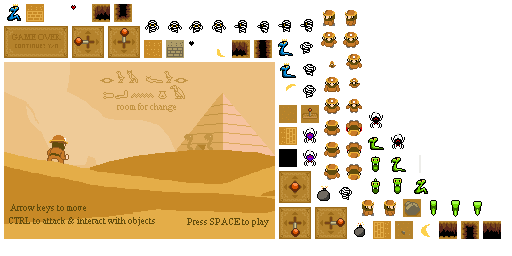
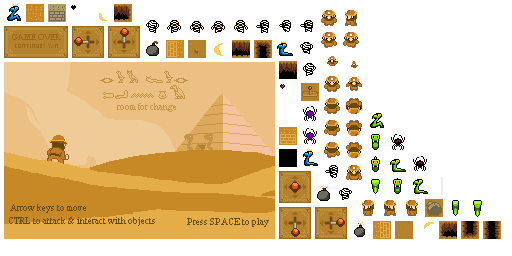
Added a bomb object

diff --git a/roomforchange/roomforchange/src/com/sturdyhelmetgames/roomforchange/entity/Enemy.java b/roomforchange/roomforchange/src/com/sturdyhelmetgames/roomforchange/entity/Enemy.java
@@ -2,6 +2,7 @@ package com.sturdyhelmetgames.roomforchange.entity;
 
 import com.badlogic.gdx.math.Rectangle;
 import com.sturdyhelmetgames.roomforchange.RandomUtil;
+import com.sturdyhelmetgames.roomforchange.assets.Assets;
 import com.sturdyhelmetgames.roomforchange.level.Level;
 
 public class Enemy extends Entity {
@@ -35,14 +36,15 @@ public class Enemy extends Entity {
 
 		if (pause <= 0f) {
 			if (state == EntityState.DYING) {
-				// TODO particle poof effect
+				level.addParticleEffect(Assets.PARTICLE_ENEMY_DIE, bounds.x
+						+ width / 2, bounds.y + height / 2);
+
 				state = EntityState.DEAD;
 				final int random = RandomUtil.random(100);
 				if (random < 30) {
 					level.entities.add(new Heart(bounds.x, bounds.y, level));
 				} else if (random < 60) {
-					// TODO bomb
-
+					level.entities.add(new Bomb(bounds.x, bounds.y, level));
 				} else if (random < 100) {
 				}
 			}
@@ -54,12 +56,15 @@ public class Enemy extends Entity {
 	}
 
 	public void takeDamage() {
-		health--;
-		if (health <= 0) {
-			state = EntityState.DYING;
+		if (pause <= 0f) {
+			health--;
+			if (health <= 0) {
+				state = EntityState.DYING;
+			} else {
+				pause = INVULNERABLE_TIME_MIN;
+				invulnerableTick = INVULNERABLE_TIME_MIN;
+			}
 		}
-		pause = INVULNERABLE_TIME_MIN;
-		invulnerableTick = INVULNERABLE_TIME_MIN;
 	}
 
 	@Override
@@ -68,4 +73,10 @@ public class Enemy extends Entity {
 			takeDamage();
 		}
 	}
+
+	@Override
+	protected void fall() {
+		// do nothing
+	}
+
 }

diff --git a/roomforchange/roomforchange/src/com/sturdyhelmetgames/roomforchange/screen/GameScreen.java b/roomforchange/roomforchange/src/com/sturdyhelmetgames/roomforchange/screen/GameScreen.java
@@ -18,7 +18,6 @@ import com.sturdyhelmetgames.roomforchange.assets.Assets;
 import com.sturdyhelmetgames.roomforchange.entity.Entity;
 import com.sturdyhelmetgames.roomforchange.entity.Entity.Direction;
 import com.sturdyhelmetgames.roomforchange.entity.Entity.HoleFallWrapper;
-import com.sturdyhelmetgames.roomforchange.entity.Heart;
 import com.sturdyhelmetgames.roomforchange.entity.Player;
 import com.sturdyhelmetgames.roomforchange.level.Level;
 import com.sturdyhelmetgames.roomforchange.tween.Vector3Accessor;
@@ -180,8 +179,8 @@ public class GameScreen extends Basic2DScreen {
 			level.player.tryHit();
 		}
 		if (keycode == Keys.K) {
-			level.entities.add(new Heart(level.player.bounds.x + 2f,
-					level.player.bounds.y, level));
+			level.addParticleEffect(Assets.PARTICLE_ENEMY_DIE,
+					level.player.bounds.x + 2f, level.player.bounds.y);
 		}
 		return super.keyDown(keycode);
 	}

diff --git a/roomforchange/roomforchange/src/com/sturdyhelmetgames/roomforchange/entity/Bomb.java b/roomforchange/roomforchange/src/com/sturdyhelmetgames/roomforchange/entity/Bomb.java
@@ -1,0 +1,31 @@
+package com.sturdyhelmetgames.roomforchange.entity;
+
+import com.badlogic.gdx.graphics.g2d.SpriteBatch;
+import com.sturdyhelmetgames.roomforchange.assets.Assets;
+import com.sturdyhelmetgames.roomforchange.level.Level;
+
+public class Bomb extends Item {
+
+	public Bomb(float x, float y, Level level) {
+		super(x, y, 1f, 1f, level);
+	}
+
+	@Override
+	public void render(float delta, SpriteBatch batch) {
+		super.render(delta, batch);
+
+		// calculate scale
+		final float scale = getScale();
+		if (aliveTick < DYING_TICK_MAX || dyingTick < DYING_TICK_MAX) {
+			batch.draw(Assets.getGameObject("bomb-3"), bounds.x, bounds.y + 0.6f
+					- 0.65f + zz, 0f, 0f, 1f, 1f, scale, scale, 0f);
+		}
+	}
+
+	@Override
+	public void collectItem() {
+		level.player.bombs++;
+		this.aliveTick = ALIVE_TIME_MAX;
+	}
+
+}

diff --git a/roomforchange/roomforchange/src/com/sturdyhelmetgames/roomforchange/util/LabyrinthUtil.java b/roomforchange/roomforchange/src/com/sturdyhelmetgames/roomforchange/util/LabyrinthUtil.java
@@ -1,9 +1,7 @@
 package com.sturdyhelmetgames.roomforchange.util;
 
 import com.sturdyhelmetgames.roomforchange.assets.Assets;
-import com.sturdyhelmetgames.roomforchange.entity.Mummy;
 import com.sturdyhelmetgames.roomforchange.entity.Player;
-import com.sturdyhelmetgames.roomforchange.entity.Snake;
 import com.sturdyhelmetgames.roomforchange.level.LabyrinthPiece;
 import com.sturdyhelmetgames.roomforchange.level.LabyrinthPiece.LabyrinthPieceState;
 import com.sturdyhelmetgames.roomforchange.level.Level;
@@ -35,7 +33,7 @@ public class LabyrinthUtil {
 
 		level.getLabyrinth()[0][0].state = LabyrinthPieceState.LIGHTS_ON;
 
-		level.player = new Player(2, 2, level);
+		level.player = new Player(6, 1, level);
 		level.entities.add(level.player);
 
 		return level;

diff --git a/roomforchange/roomforchange/src/com/sturdyhelmetgames/roomforchange/entity/Player.java b/roomforchange/roomforchange/src/com/sturdyhelmetgames/roomforchange/entity/Player.java
@@ -15,6 +15,7 @@ public class Player extends Entity {
 	public float invulnerableTime = 0f;
 	public float maxInvulnerableTime = 4f;
 	public int health = 5;
+	public int bombs = 0;
 	public int maxHealth = 5;
 	private final Rectangle hitBounds = new Rectangle(0f, 0f, 0.8f, 0.8f);
 
